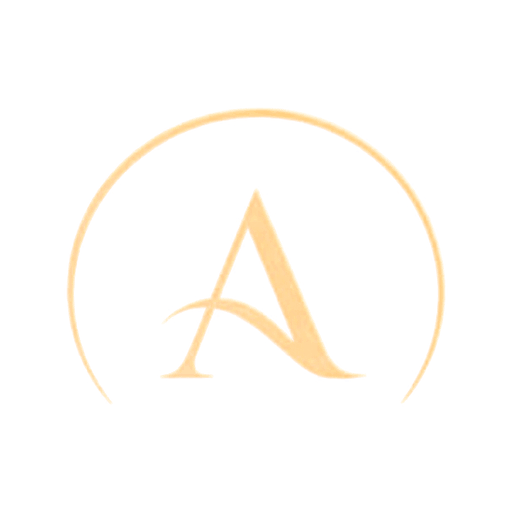
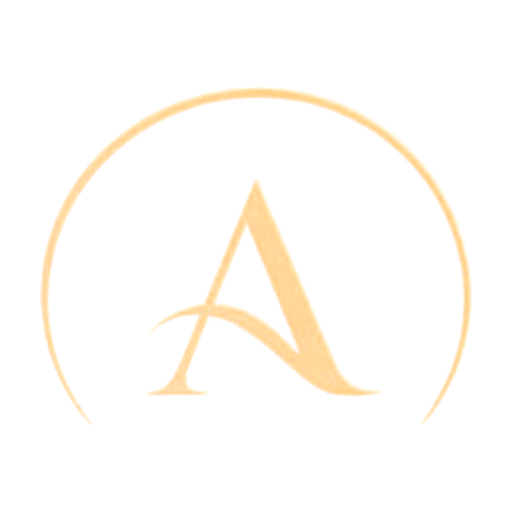
fix: AVENUES was set from a box that was two-thirds empty
The wordmark rendered about eight pixels tall beside a 56px monogram — the
brand name reduced to a caption hanging off its own mark.

The cause was the margin rule, not the size value. Both assets were padded by
8% of their LONG edge. That is fine for the mark, which is nearly square, but
AVENUES is 578x55: 8% of 578 is a 46px border on a 55px-tall element, so the
letters ended up occupying 37% of their own box. Every height set on that box
was therefore off by a factor of nearly three, in a way nothing in the CSS
would ever reveal.

Two changes fix it for good:

- The margin is measured against the SHORT edge, so a wide element gets a
  margin proportional to what makes it wide.
- The margin step trims to the ink before extending, instead of adding to
  whatever the crop happened to include. It is now the single authority on the
  final geometry rather than one of two things affecting it.

Both assets come out ~86% ink, so the heights in logo.tsx now mean roughly what
they say. The nav wordmark goes 8px -> 26px and reads as a name.

Checked for crowding at 1024, 1100, 1280, 1440 and 1920: no horizontal
overflow, gutters constant. The nav is at its natural minimum at 1024, so this
is about as large as the lockup goes without dropping a link. The phone step is
held smaller so the centred lockup cannot crowd the menu button and the cart.

Favicon inset 0.86 -> 0.95, checked at 32px and 16px.

diff --git a/src/components/brand/logo.tsx b/src/components/brand/logo.tsx
@@ -37,17 +37,28 @@ export function Logo({
    * 36x36 slot — a fifth of the height thrown away, which is most of why it
    * looked small and timid in the nav.
    *
-   * The numbers then went up again, twice. Once because the mark still read as
-   * a token rather than a masthead against a 72px nav bar, and once because the
-   * assets now carry an 8% transparent margin of their own — so a 44px box only
-   * ever draws about 37px of actual ink, and the box has to be bigger than the
-   * mark you want to see.
+   * The numbers then went up, twice. Once because the mark still read as a
+   * token rather than a masthead against a 72px nav bar, and once because the
+   * assets carry an 8% transparent margin of their own — so the box always has
+   * to be a little bigger than the mark you want to see.
+   *
+   * The wordmark is sized to read as the BRAND NAME, not as a caption hanging
+   * off the mark. It had been set from a box that was 63% empty space, so the
+   * letters rendered around eight pixels tall next to a 56px monogram. Both
+   * assets are now ~86% ink, so these heights mean roughly what they say.
    */
   const dims = {
-    sm: { mark: "h-10 w-auto", wordImg: "h-[1.05rem] w-auto", sub: "text-[0.5rem] tracking-[0.34em]" },
-    md: { mark: "h-14 w-auto", wordImg: "h-[1.45rem] w-auto", sub: "text-[0.6875rem] tracking-[0.36em]" },
-    lg: { mark: "h-20 w-auto", wordImg: "h-[2.1rem] w-auto", sub: "text-[0.8125rem] tracking-[0.38em]" },
-    xl: { mark: "h-32 w-auto", wordImg: "h-[3.4rem] w-auto", sub: "text-[0.875rem] tracking-[0.4em]" },
+    sm: { mark: "h-9 w-auto", wordImg: "h-[1.1rem] w-auto", sub: "text-[0.5rem] tracking-[0.34em]" },
+    // `md` is the nav, and the nav is the one place where the lockup competes
+    // for width. The phone step is smaller so the centred lockup cannot crowd
+    // the menu button and the cart on a 390px screen.
+    md: {
+      mark: "h-11 w-auto sm:h-14",
+      wordImg: "h-[1.3rem] w-auto sm:h-[1.65rem]",
+      sub: "text-[0.6875rem] tracking-[0.36em]",
+    },
+    lg: { mark: "h-20 w-auto", wordImg: "h-[2.3rem] w-auto", sub: "text-[0.8125rem] tracking-[0.38em]" },
+    xl: { mark: "h-32 w-auto", wordImg: "h-[3.6rem] w-auto", sub: "text-[0.875rem] tracking-[0.4em]" },
   }[size];
 
   const inner = (
@@ -67,7 +78,7 @@ export function Logo({
         which stretched it 19% vertically and pushed the open ends of the arc
         off the bottom edge — the logo rendered visibly broken.
 
-        Largest use is 128px (xl) against a 519px asset, so it is oversampled
+        Largest use is 128px (xl) against a 503px asset, so it is oversampled
         everywhere it appears, including at devicePixelRatio 3. The supplied
         logo is a 788px JPEG, and that is the ceiling — a genuinely
         resolution-independent mark needs the vector original.
@@ -75,8 +86,8 @@ export function Logo({
       <Image
         src="/logo-mark.png"
         alt=""
-        width={519}
-        height={422}
+        width={503}
+        height={406}
         priority
         className={cn(dims.mark, "shrink-0 object-contain")}
       />
@@ -92,8 +103,8 @@ export function Logo({
           <Image
             src="/logo-wordmark.png"
             alt="Avenues"
-            width={670}
-            height={147}
+            width={586}
+            height={63}
             priority
             className={cn(dims.wordImg, "object-contain")}
           />

diff --git a/src/components/brand/brand-mark.tsx b/src/components/brand/brand-mark.tsx
@@ -31,8 +31,8 @@ export function BrandMark({
       alt={alt}
       // Intrinsic size of the asset scripts/gen-logo.mjs produces. Keep in step
       // with it and with logo.tsx; a wrong ratio here silently distorts the ring.
-      width={519}
-      height={422}
+      width={503}
+      height={406}
       priority={priority}
       aria-hidden={alt ? undefined : true}
       className={cn("object-contain", className)}
